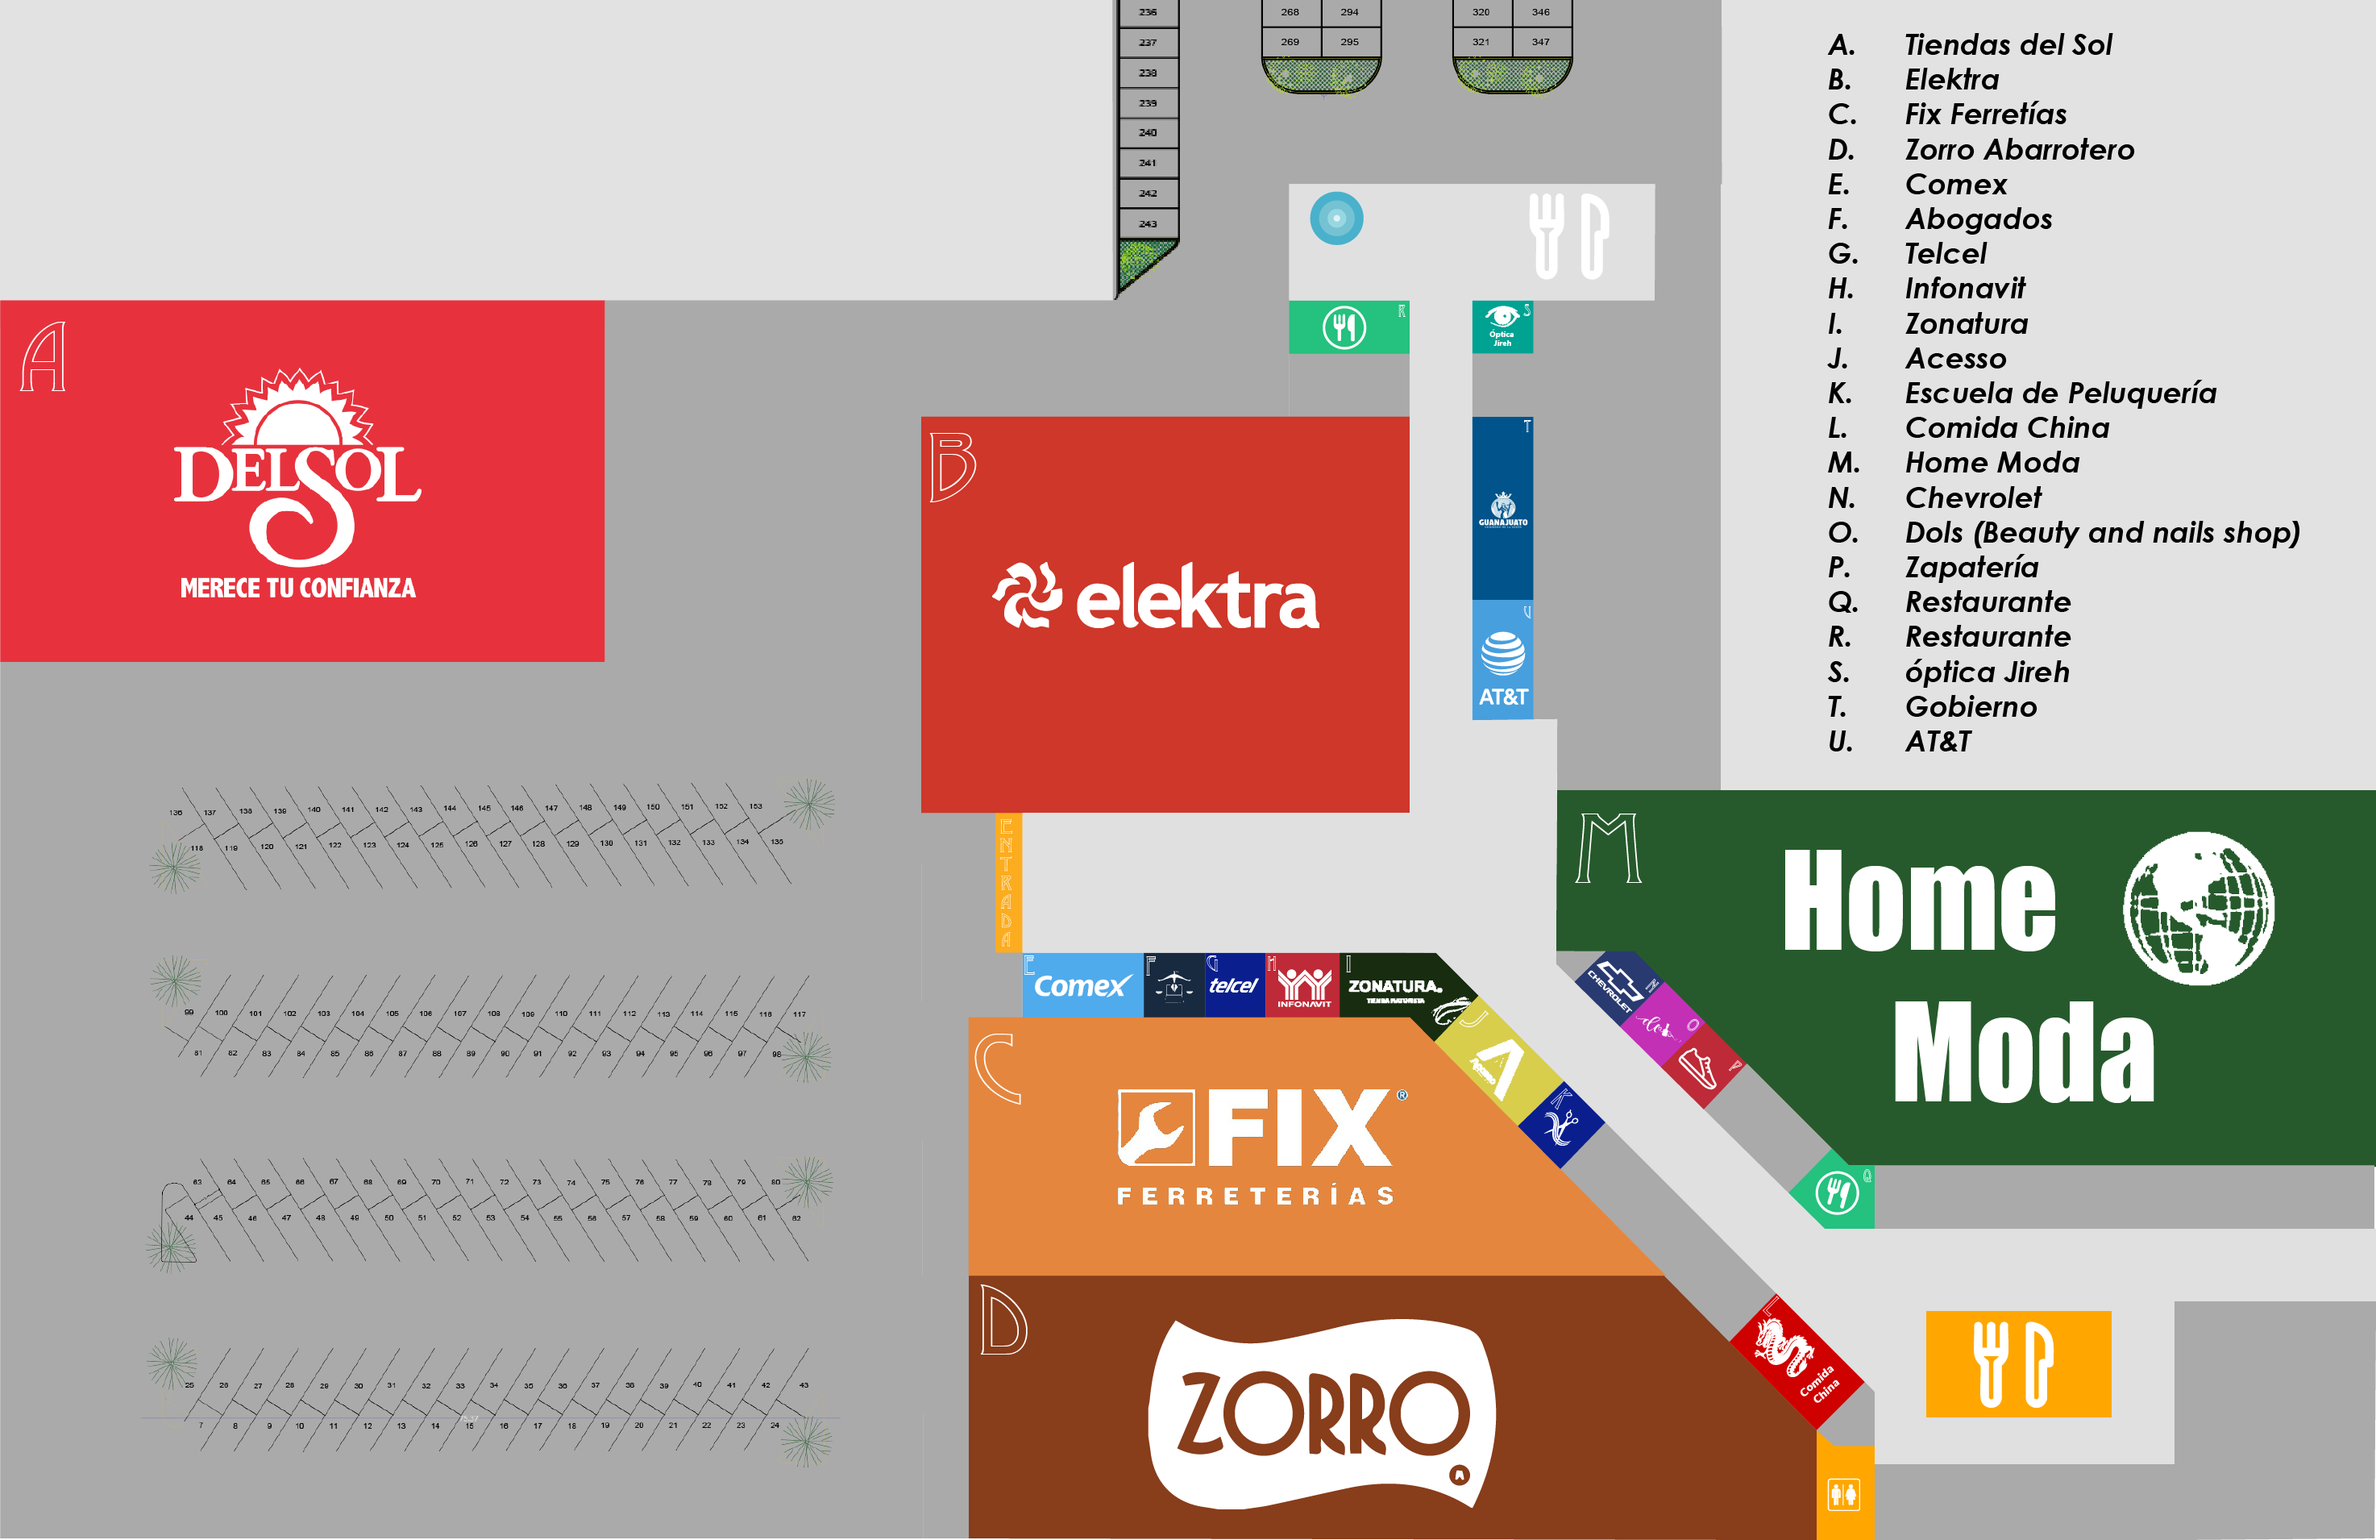
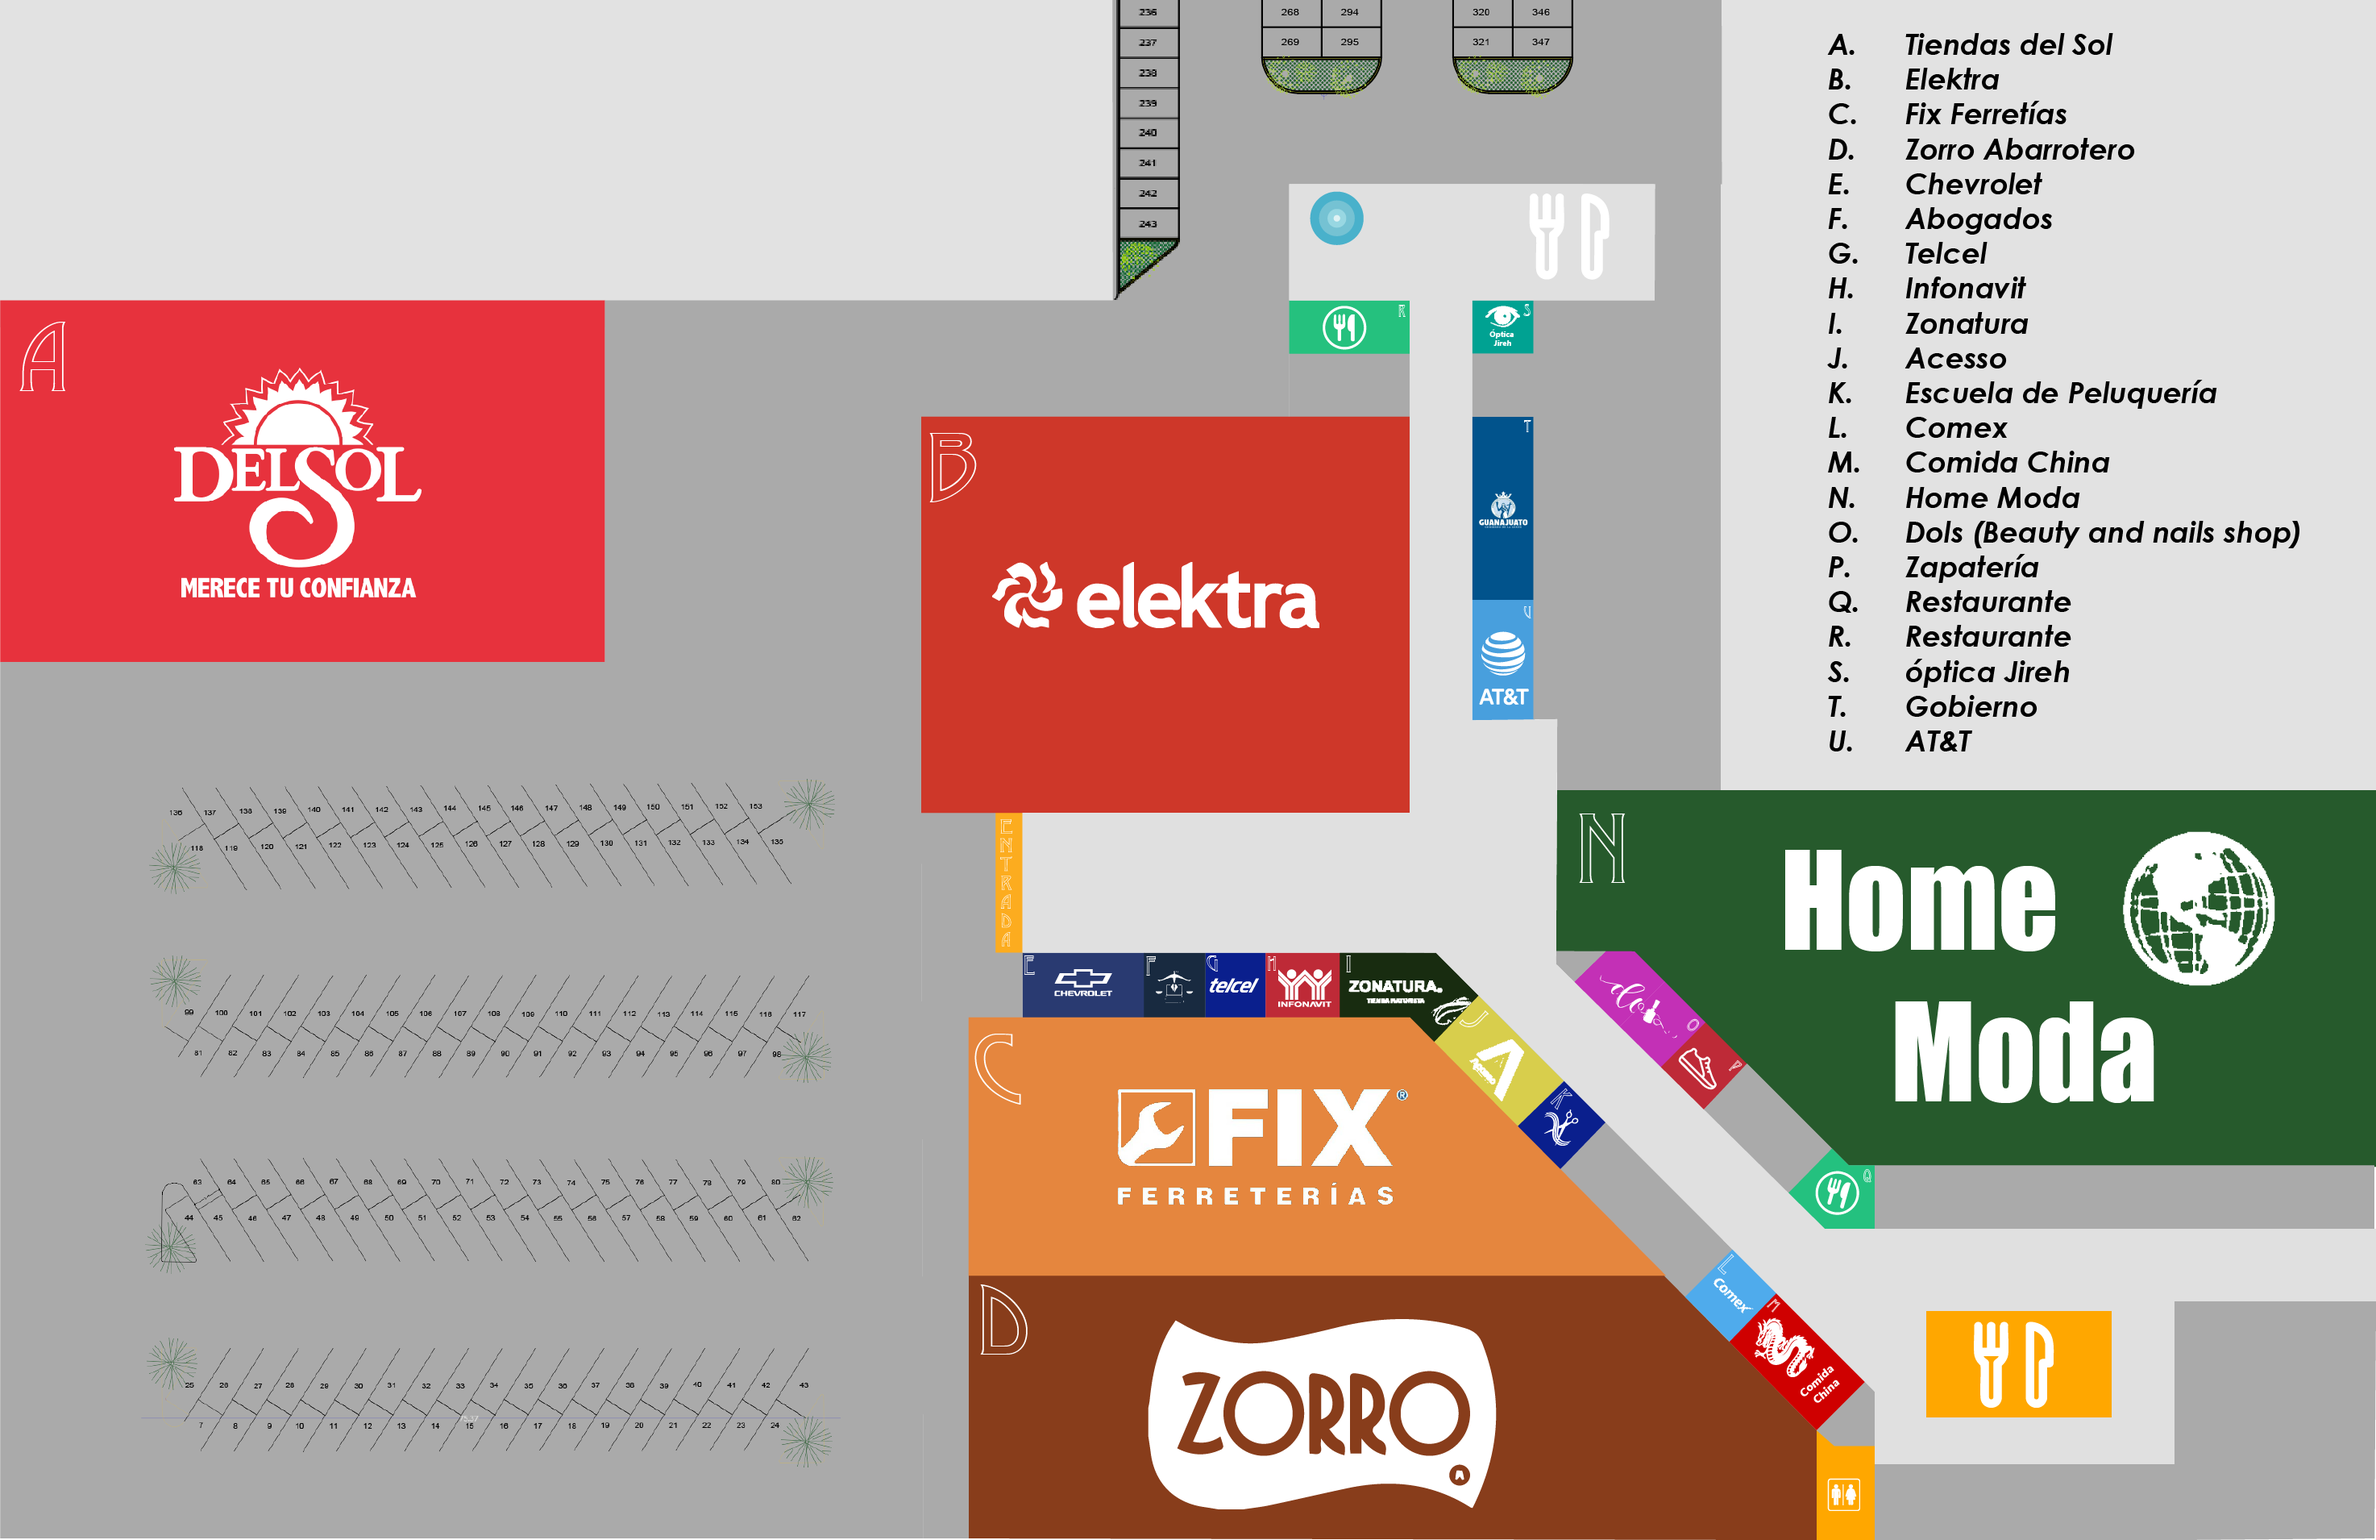
Update store map and add missing store photos
- Replace map image with updated store layout
- Update store directory letters to match new map positions:
  - Chevrolet moved to Local E
  - Comex moved to Local L
  - Comida China to Local M
  - Home Moda to Local N
- Add photos for stores that were missing images:
  - Chevrolet, Comex, Comida China, Home Moda
  - Escuela de Peluquería, Zapatería
  - Restaurante (both locations)
  - Óptica Jireh, Gobierno
- Update stores.json with correct image paths and locations

🤖 Generated with [Claude Code](https://claude.ai/code)

diff --git a/tiendas/index.html b/tiendas/index.html
@@ -122,19 +122,20 @@
                     <div><strong>B.</strong> Elektra</div>
                     <div><strong>C.</strong> Fix Ferreterías</div>
                     <div><strong>D.</strong> Zorro Abarrotero</div>
-                    <div><strong>E.</strong> Comex</div>
+                    <div><strong>E.</strong> Chevrolet</div>
                     <div><strong>F.</strong> Abogados</div>
                     <div><strong>G.</strong> Telcel</div>
                     <div><strong>H.</strong> Infonavit</div>
                     <div><strong>I.</strong> Zonatura</div>
                     <div><strong>J.</strong> Acceso</div>
                     <div><strong>K.</strong> Escuela de Peluquería</div>
-                    <div><strong>L.</strong> Comida China</div>
-                    <div><strong>M.</strong> Home Moda</div>
-                    <div><strong>N.</strong> Chevrolet</div>
-                    <div><strong>O.</strong> Dols (Beauty & Nails)</div>
+                    <div><strong>L.</strong> Comex</div>
+                    <div><strong>M.</strong> Comida China</div>
+                    <div><strong>N.</strong> Home Moda</div>
+                    <div><strong>O.</strong> Dols (Beauty & Nails Shop)</div>
                     <div><strong>P.</strong> Zapatería</div>
-                    <div><strong>Q-R.</strong> Restaurantes</div>
+                    <div><strong>Q.</strong> Restaurante</div>
+                    <div><strong>R.</strong> Restaurante</div>
                     <div><strong>S.</strong> Óptica Jireh</div>
                     <div><strong>T.</strong> Gobierno</div>
                     <div><strong>U.</strong> AT&T</div>
